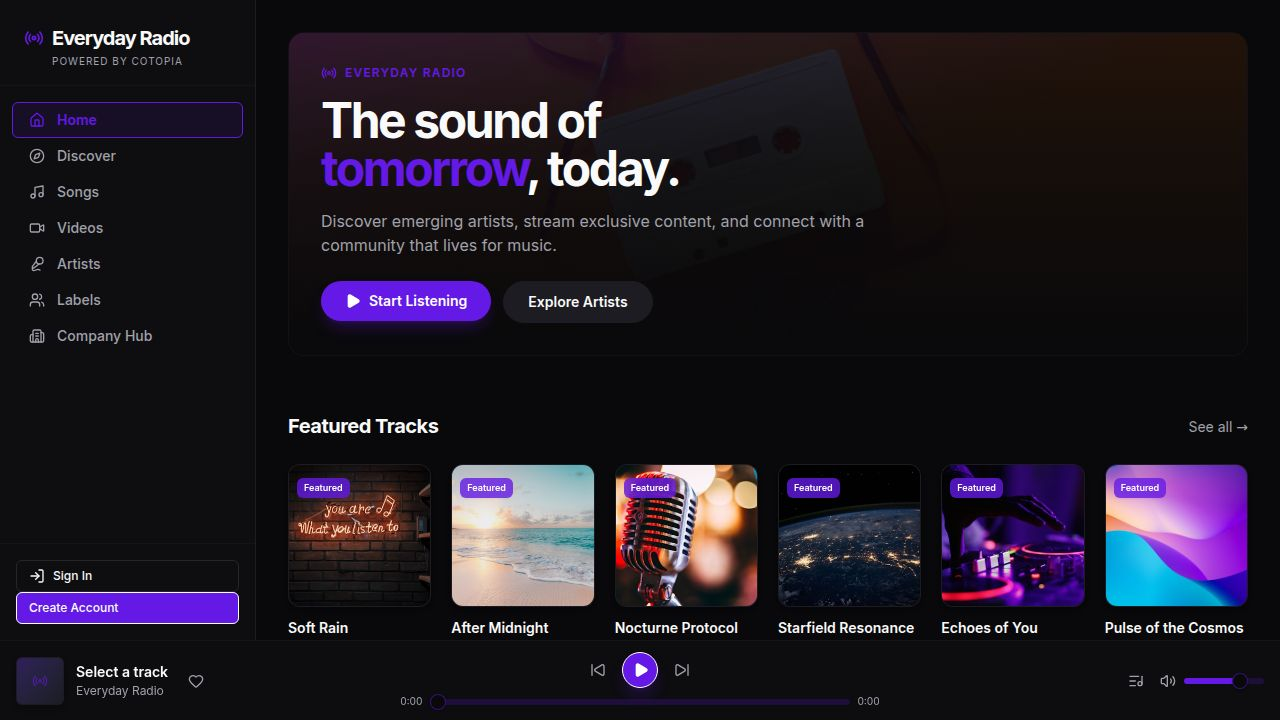
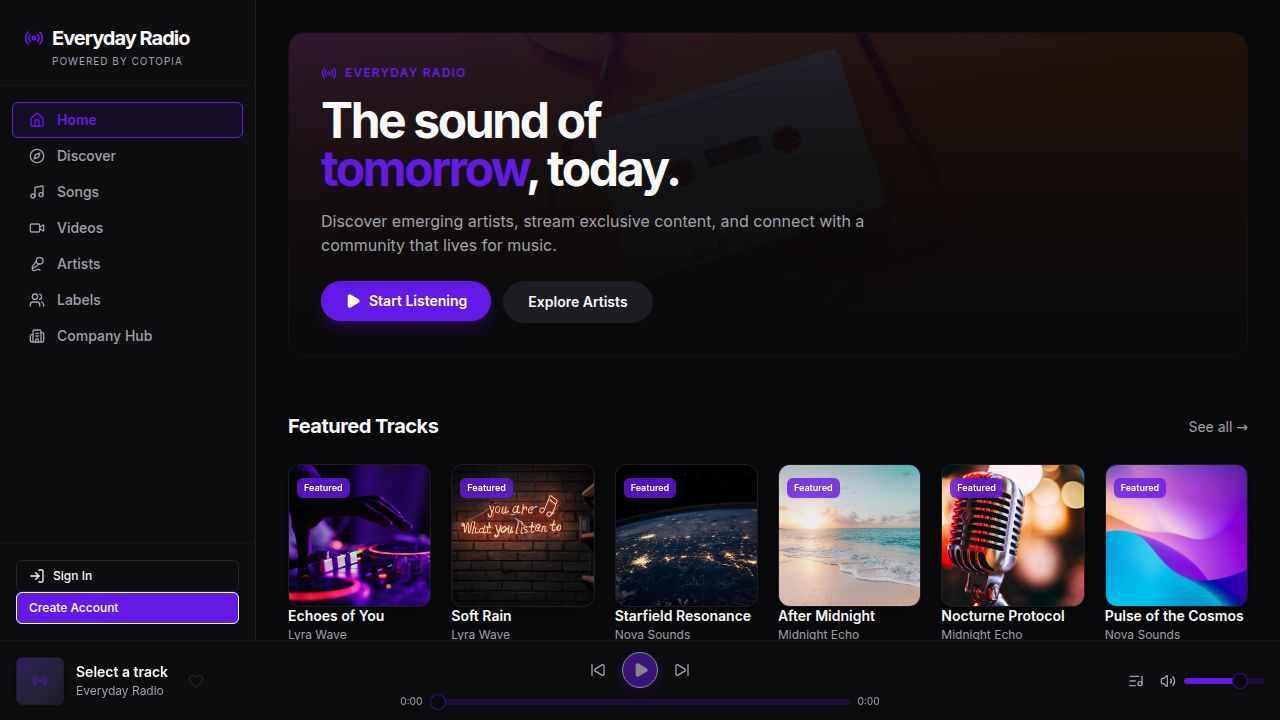
Add scheduling and notifications for new releases
Implement release date gating for submissions, an auto-publish scheduler, and follower notifications for new content.

Replit-Commit-Author: Agent
Replit-Commit-Session-Id: 8a1827d9-ee81-4e69-a9f1-75754c696a03
Replit-Commit-Checkpoint-Type: full_checkpoint
Replit-Commit-Event-Id: ca41da8a-cfc8-4531-a7ba-e4fd751e9c5f
Replit-Commit-Screenshot-Url: https://storage.googleapis.com/screenshot-production-us-central1/98ea616f-b6e7-4a19-90c7-13fbabf8647b/8a1827d9-ee81-4e69-a9f1-75754c696a03/g6pt1kG
Replit-Helium-Checkpoint-Created: true

Changed region(s): [[0.2188, 0.6417, 0.9688, 0.9472]]

diff --git a/artifacts/api-server/src/lib/publisher.ts b/artifacts/api-server/src/lib/publisher.ts
@@ -1,0 +1,148 @@
+/**
+ * Shared publish logic:
+ * - Marks a song or video as "published"
+ * - Finds all followers of the artist and sends them a new_release notification
+ * - Used by the submission approval flow and the scheduled auto-publisher
+ */
+import { eq, and, lte, inArray } from "drizzle-orm";
+import {
+  db, songsTable, videosTable, submissionsTable,
+  artistsTable, followsTable, notificationsTable, usersTable,
+} from "@workspace/db";
+import { logger } from "./logger";
+
+export async function publishContent(
+  type: "song" | "video",
+  contentId: number,
+  opts: { submissionId?: number } = {}
+) {
+  if (type === "song") {
+    await db.update(songsTable).set({ status: "published" }).where(eq(songsTable.id, contentId));
+    await sendFollowerNotifications("song", contentId, opts.submissionId);
+    if (opts.submissionId) {
+      await db.update(submissionsTable).set({ status: "published" }).where(eq(submissionsTable.id, opts.submissionId));
+    }
+  } else {
+    await db.update(videosTable).set({ status: "published" }).where(eq(videosTable.id, contentId));
+    await sendFollowerNotifications("video", contentId, opts.submissionId);
+    if (opts.submissionId) {
+      await db.update(submissionsTable).set({ status: "published" }).where(eq(submissionsTable.id, opts.submissionId));
+    }
+  }
+}
+
+async function sendFollowerNotifications(
+  type: "song" | "video",
+  contentId: number,
+  submissionId?: number
+) {
+  // Get content details + artist
+  let artistId: number | null = null;
+  let contentTitle = "";
+  let artistName = "";
+  let coverUrl: string | null = null;
+
+  if (type === "song") {
+    const [song] = await db
+      .select({ artistId: songsTable.artistId, title: songsTable.title, coverUrl: songsTable.coverUrl })
+      .from(songsTable).where(eq(songsTable.id, contentId)).limit(1);
+    if (!song) return;
+    artistId = song.artistId;
+    contentTitle = song.title;
+    coverUrl = song.coverUrl;
+  } else {
+    const [video] = await db
+      .select({ artistId: videosTable.artistId, title: videosTable.title, thumbnailUrl: videosTable.thumbnailUrl })
+      .from(videosTable).where(eq(videosTable.id, contentId)).limit(1);
+    if (!video) return;
+    artistId = video.artistId;
+    contentTitle = video.title;
+    coverUrl = video.thumbnailUrl;
+  }
+
+  const [artist] = await db
+    .select({ stageName: artistsTable.stageName })
+    .from(artistsTable).where(eq(artistsTable.id, artistId)).limit(1);
+  artistName = artist?.stageName ?? "Unknown Artist";
+
+  // Get all followers of this artist
+  const followers = await db
+    .select({ followerId: followsTable.followerId })
+    .from(followsTable)
+    .where(and(eq(followsTable.targetType, "artist"), eq(followsTable.targetId, artistId)));
+
+  if (!followers.length) return;
+
+  const followerIds = followers.map((f) => f.followerId);
+
+  const notifications = followerIds.map((userId) => ({
+    userId,
+    type: "new_release" as const,
+    title: `${artistName} just dropped a new ${type}!`,
+    message: `"${contentTitle}" is now available to ${type === "song" ? "stream" : "watch"}. Check it out!`,
+    isRead: false,
+    submissionId: submissionId ?? null,
+  }));
+
+  if (notifications.length) {
+    await db.insert(notificationsTable).values(notifications);
+    logger.info({ artistId, contentId, type, followerCount: followers.length }, "Sent release notifications to followers");
+  }
+}
+
+/**
+ * Scheduled job: auto-publish approved songs/videos whose releaseDate has arrived.
+ * Call once at startup — runs every 60 seconds.
+ */
+export function startReleaseScheduler() {
+  const runCheck = async () => {
+    try {
+      const today = new Date().toISOString().slice(0, 10); // YYYY-MM-DD
+
+      // Songs: approved, has a releaseDate <= today
+      const readySongs = await db
+        .select({ id: songsTable.id })
+        .from(songsTable)
+        .where(and(
+          eq(songsTable.status, "approved"),
+          lte(songsTable.releaseDate, today)
+        ));
+
+      for (const song of readySongs) {
+        // Find the matching submission
+        const [sub] = await db
+          .select({ id: submissionsTable.id })
+          .from(submissionsTable)
+          .where(and(eq(submissionsTable.contentId, song.id), eq(submissionsTable.type, "song")))
+          .limit(1);
+        await publishContent("song", song.id, { submissionId: sub?.id });
+        logger.info({ songId: song.id }, "Scheduled release: song published");
+      }
+
+      // Videos: approved, has a releaseDate <= today
+      const readyVideos = await db
+        .select({ id: videosTable.id })
+        .from(videosTable)
+        .where(and(
+          eq(videosTable.status, "approved"),
+          lte(videosTable.releaseDate, today)
+        ));
+
+      for (const video of readyVideos) {
+        const [sub] = await db
+          .select({ id: submissionsTable.id })
+          .from(submissionsTable)
+          .where(and(eq(submissionsTable.contentId, video.id), eq(submissionsTable.type, "video")))
+          .limit(1);
+        await publishContent("video", video.id, { submissionId: sub?.id });
+        logger.info({ videoId: video.id }, "Scheduled release: video published");
+      }
+    } catch (err) {
+      logger.error({ err }, "Release scheduler error");
+    }
+  };
+
+  // Run immediately on startup, then every 60 seconds
+  runCheck();
+  setInterval(runCheck, 60_000);
+}

diff --git a/artifacts/api-server/src/routes/submissions.ts b/artifacts/api-server/src/routes/submissions.ts
@@ -6,6 +6,7 @@ import {
   UpdateSubmissionParams, UpdateSubmissionBody,
 } from "@workspace/api-zod";
 import { requireAuth, type AuthRequest } from "../lib/auth";
+import { publishContent } from "../lib/publisher";
 
 const router = Router();
 
@@ -79,6 +80,7 @@ router.post("/submissions", requireAuth, async (req: AuthRequest, res): Promise<
       streamUrl: d.fileUrl ?? null,
       status: "draft",
       duration: 0,
+      releaseDate: d.releaseDate ?? null,
     }).returning();
     contentId = song.id;
   } else {
@@ -91,6 +93,7 @@ router.post("/submissions", requireAuth, async (req: AuthRequest, res): Promise<
       videoUrl: d.fileUrl ?? null,
       status: "draft",
       duration: 0,
+      releaseDate: d.releaseDate ?? null,
     }).returning();
     contentId = video.id;
   }
@@ -143,32 +146,75 @@ router.patch("/submissions/:id", requireAuth, async (req: AuthRequest, res): Pro
     .where(eq(submissionsTable.id, params.data.id))
     .returning();
 
-  if (parsed.data.status === "published" && submission.contentId) {
-    if (submission.type === "song") {
-      await db.update(songsTable).set({ status: "published" }).where(eq(songsTable.id, submission.contentId));
+  // ── Approval flow ────────────────────────────────────────────────────────
+  if (parsed.data.status === "approved" && submission.contentId) {
+    const enriched = await enrichSubmission(submission);
+
+    // Parse releaseDate from submitterNotes JSON
+    let releaseDate: string | null = null;
+    try {
+      const meta = JSON.parse(submission.submitterNotes ?? "{}");
+      if (meta.releaseDate) releaseDate = meta.releaseDate as string;
+    } catch { /* ignore */ }
+
+    const today = new Date().toISOString().slice(0, 10);
+    const hasFutureDate = releaseDate && releaseDate > today;
+
+    if (hasFutureDate) {
+      // Store releaseDate on the content row and leave it as "approved" (not published yet)
+      if (submission.type === "song") {
+        await db.update(songsTable).set({ status: "approved", releaseDate }).where(eq(songsTable.id, submission.contentId));
+      } else {
+        await db.update(videosTable).set({ status: "approved", releaseDate }).where(eq(videosTable.id, submission.contentId));
+      }
+
+      // Notify the submitter of the scheduled release date
+      await db.insert(notificationsTable).values({
+        userId: submission.userId,
+        type: "submission_approved",
+        title: `"${enriched.title}" approved — scheduled for ${releaseDate}`,
+        message: parsed.data.adminNotes
+          ? `Admin note: ${parsed.data.adminNotes}. Your content will go live on ${releaseDate}.`
+          : `Your content is approved and will be published automatically on ${releaseDate}. Stay tuned!`,
+        submissionId: submission.id,
+        isRead: false,
+      });
     } else {
-      await db.update(videosTable).set({ status: "published" }).where(eq(videosTable.id, submission.contentId));
+      // No future date — publish immediately
+      await publishContent(submission.type as "song" | "video", submission.contentId, { submissionId: submission.id });
+
+      // Notify submitter
+      await db.insert(notificationsTable).values({
+        userId: submission.userId,
+        type: "submission_approved",
+        title: `"${enriched.title}" is now live!`,
+        message: parsed.data.adminNotes
+          ? `Admin note: ${parsed.data.adminNotes}`
+          : "Your submission has been approved and published. Thanks for your contribution!",
+        submissionId: submission.id,
+        isRead: false,
+      });
     }
   }
 
-  // Fire a notification when admin approves or rejects
-  if (parsed.data.status === "approved" || parsed.data.status === "rejected") {
+  // ── Rejection flow ───────────────────────────────────────────────────────
+  if (parsed.data.status === "rejected") {
     const enriched = await enrichSubmission(submission);
-    const approved = parsed.data.status === "approved";
     await db.insert(notificationsTable).values({
       userId: submission.userId,
-      type: approved ? "submission_approved" : "submission_rejected",
-      title: approved
-        ? `"${enriched.title}" has been approved!`
-        : `"${enriched.title}" was not approved`,
+      type: "submission_rejected",
+      title: `"${enriched.title}" was not approved`,
       message: parsed.data.adminNotes
         ? `Admin note: ${parsed.data.adminNotes}`
-        : approved
-          ? "Your submission has been approved and will be published shortly. Thanks for your contribution!"
-          : "Your submission did not meet our current requirements. You're welcome to revise and resubmit.",
+        : "Your submission did not meet our current requirements. You're welcome to revise and resubmit.",
       submissionId: submission.id,
       isRead: false,
     });
+  }
+
+  // ── Manual publish (legacy path) ─────────────────────────────────────────
+  if (parsed.data.status === "published" && submission.contentId) {
+    await publishContent(submission.type as "song" | "video", submission.contentId, { submissionId: submission.id });
   }
 
   const enriched = await enrichSubmission(submission);

diff --git a/lib/db/src/schema/songs.ts b/lib/db/src/schema/songs.ts
@@ -1,4 +1,4 @@
-import { pgTable, text, serial, timestamp, integer, boolean } from "drizzle-orm/pg-core";
+import { pgTable, text, serial, timestamp, integer, boolean, date } from "drizzle-orm/pg-core";
 import { createInsertSchema } from "drizzle-zod";
 import { z } from "zod/v4";
 import { artistsTable } from "./artists";
@@ -17,6 +17,7 @@ export const songsTable = pgTable("songs", {
   playCount: integer("play_count").notNull().default(0),
   status: text("status").notNull().default("draft"), // draft | pending_review | approved | rejected | published
   isFeatured: boolean("is_featured").notNull().default(false),
+  releaseDate: date("release_date"),
   createdAt: timestamp("created_at", { withTimezone: true }).notNull().defaultNow(),
   updatedAt: timestamp("updated_at", { withTimezone: true }).notNull().defaultNow().$onUpdate(() => new Date()),
 });

diff --git a/lib/db/src/schema/videos.ts b/lib/db/src/schema/videos.ts
@@ -1,4 +1,4 @@
-import { pgTable, text, serial, timestamp, integer, boolean } from "drizzle-orm/pg-core";
+import { pgTable, text, serial, timestamp, integer, boolean, date } from "drizzle-orm/pg-core";
 import { createInsertSchema } from "drizzle-zod";
 import { z } from "zod/v4";
 import { artistsTable } from "./artists";
@@ -15,6 +15,7 @@ export const videosTable = pgTable("videos", {
   viewCount: integer("view_count").notNull().default(0),
   status: text("status").notNull().default("draft"),
   isFeatured: boolean("is_featured").notNull().default(false),
+  releaseDate: date("release_date"),
   createdAt: timestamp("created_at", { withTimezone: true }).notNull().defaultNow(),
   updatedAt: timestamp("updated_at", { withTimezone: true }).notNull().defaultNow().$onUpdate(() => new Date()),
 });

diff --git a/artifacts/api-server/src/index.ts b/artifacts/api-server/src/index.ts
@@ -1,5 +1,6 @@
 import app from "./app";
 import { logger } from "./lib/logger";
+import { startReleaseScheduler } from "./lib/publisher";
 
 const rawPort = process.env["PORT"];
 
@@ -22,4 +23,5 @@ app.listen(port, (err) => {
   }
 
   logger.info({ port }, "Server listening");
+  startReleaseScheduler();
 });

diff --git a/lib/db/src/schema/notifications.ts b/lib/db/src/schema/notifications.ts
@@ -6,7 +6,7 @@ import { usersTable } from "./users";
 export const notificationsTable = pgTable("notifications", {
   id: serial("id").primaryKey(),
   userId: integer("user_id").notNull().references(() => usersTable.id, { onDelete: "cascade" }),
-  type: text("type").notNull(), // submission_approved | submission_rejected | general
+  type: text("type").notNull(), // submission_approved | submission_rejected | new_release | general
   title: text("title").notNull(),
   message: text("message").notNull(),
   isRead: boolean("is_read").notNull().default(false),